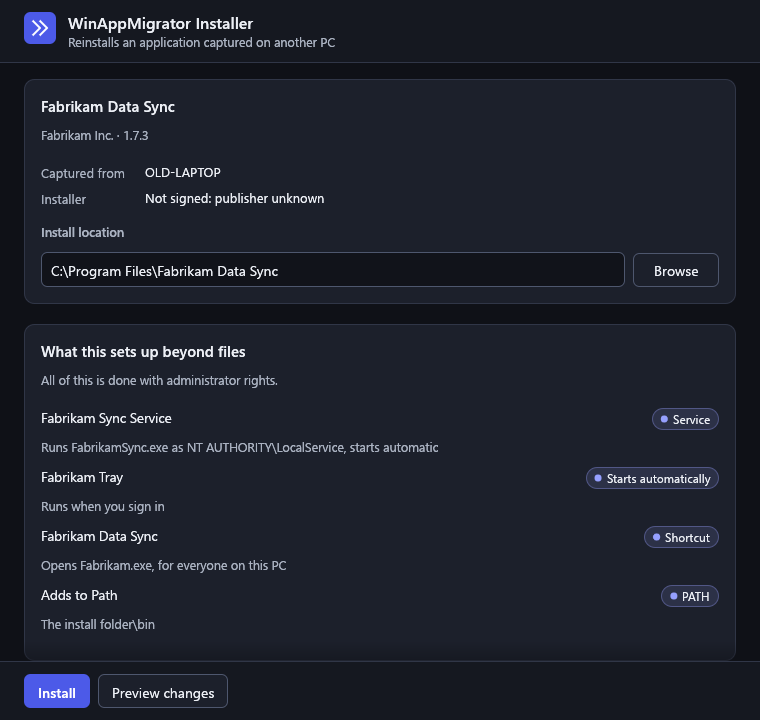
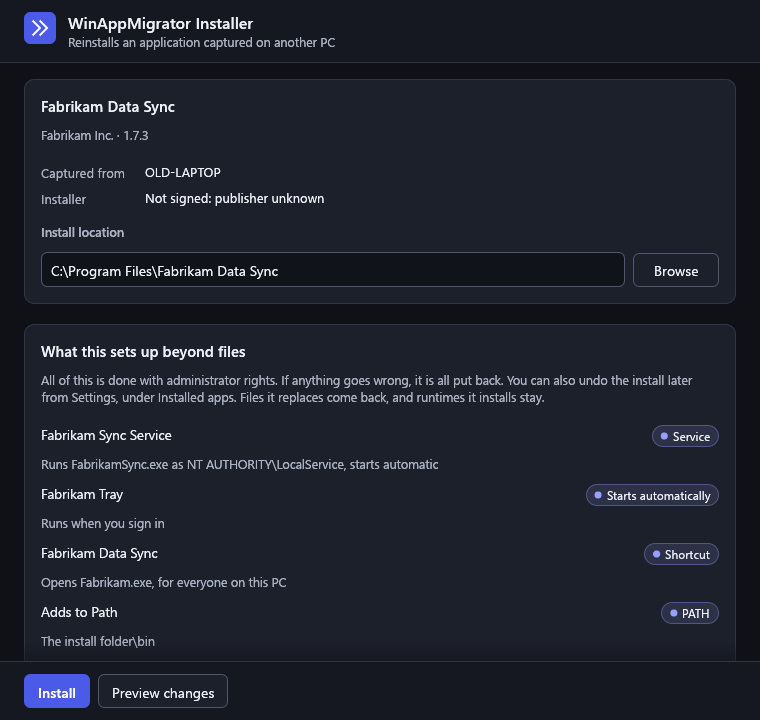
Document undoing an install, and renumber the plan
Removes items 5 and 13 from the plan, with the screenshots regenerated for what the
installer now says it can do.

Changed region(s): [[0.0605, 0.5194, 0.9684, 0.9167], [0.8474, 0.7333, 0.9684, 0.8861]]

diff --git a/README.md b/README.md
@@ -50,6 +50,8 @@ services, and runtimes, and packs them into a single `.exe`.
 - **Says what it will do.** Before installing, it lists the services, drivers, scheduled tasks, autostart
   entries, shortcuts, and `Path` changes it sets up, and whether it is signed and by whom. A preview goes
   further, listing every change.
+- **Can be undone.** If anything goes wrong, or you cancel, everything is put back. Later, you can uninstall
+  it from Settings like any other app, and files it replaced come back.
 
 ## How it works
 
@@ -78,7 +80,7 @@ Follow the progress, or cancel. You get one file, named after what it contains, 
 ### 3. Run it on the other PC
 
 Copy the installer over and run it. Check the install location, preview the changes if you like, then
-click **Install**.
+click **Install**. Follow the progress, or cancel, which puts back whatever it has done so far.
 
 <p align="center">
   <picture>
@@ -116,8 +118,18 @@ Please read these before relying on it, especially on a one-way trip from a fail
 - **Building to a FAT32 or exFAT drive needs room on your system drive.** Those drives cannot keep the
   build's working files private, so they go in the system's temp folder, and only the installer is
   written to the drive.
-- **Installs have no rollback, and no uninstaller is created.** A failure can leave an install part-way,
-  and files with the same names are replaced. The window warns you if the folder already has files.
+- **What an uninstall leaves.** Files and settings that changed after the install stay, and it says which,
+  and in that case what they replaced does not come back.
+  So do files you added, with the folders they are in, and user data and licenses unless you ask for them
+  to go. A runtime it installed stays, because other programs may be using it, including when a failed
+  install is rolled back. A service that ran as a custom account does not get its password back, because it
+  was never in the installer. Uninstalling an install made over another brings the earlier one back,
+  which has its own entry in Settings.
+- **A file replaced on another drive comes back with its folder's permissions.** Only a file on the same
+  drive as `ProgramData` can be moved aside as it is. One elsewhere is copied, and if it had permissions of
+  its own, they are not kept.
+- **An uninstaller shows "Unknown publisher" at its UAC prompt,** even for an installer you signed, because
+  [the stub must never be signed](docs/signing.md).
 - **Building from a connected drive captures less than building from the running PC.** COM, file
   associations, Run keys, and environment variables often do not match, shortcuts are not recreated, and
   the default install location keeps the drive's letter, so change it. Windows may also write to a
@@ -135,6 +147,9 @@ Please read these before relying on it, especially on a one-way trip from a fail
 - **Shortcuts go to your own Desktop and Start Menu.** One from a Desktop folder with an unusual name is left
   out and reported.
 - **Some licenses will not move.** Anything tied to the old machine may need reactivating.
+- **A file named like a device, such as `aux.h`, cannot be installed before Windows 11.** Earlier versions
+  open that name as the device instead. An installer holding one stops and says so, before anything is
+  installed. This goes by Microsoft's documented rule, because it has not been run on Windows 10.
 - **It is only for software you are licensed to move.** That part is up to you.
 
 The full list, with planned fixes, is in the [plan](docs/PLAN.md#open-issues-most-important-first).
@@ -154,8 +169,9 @@ More in [SECURITY.md](SECURITY.md).
 
 ## Automating the installer
 
-Run with any argument, an installer skips its window. With `--target-root` it previews unless you pass
-`--apply`, and exits non-zero if anything fails to verify. Without `--target-root` it prints usage.
+Run with any argument, an installer skips its window. It previews unless you pass `--apply`, and exits
+non-zero if anything fails, after putting back what it did. With no arguments that say what to do, it
+prints usage.
 
 ```powershell
 # Preview
@@ -163,20 +179,30 @@ Run with any argument, an installer skips its window. With `--target-root` it pr
 
 # Install
 .\App_installer.exe --target-root "C:\Program Files\App" --apply --force
+
+# Uninstall, with the id it printed, or the QuietUninstallString in its entry in Settings
+& "C:\ProgramData\WinAppMigrator\installs\wam-abc123\uninstall.exe" --uninstall wam-abc123 --quiet
 ```
 
 | Flag | Effect |
 | --- | --- |
-| `--target-root <DIR>` | Where to install. Must be a full path |
+| `--target-root <DIR>` | Where to install. Must be a full path. Without it, `--apply` and `--dry-run` use where the app was, if the checks the window makes allow that |
 | `--apply` | Actually install. Without it nothing is installed: the package is unpacked to a temporary folder, which is then removed |
 | `--dry-run` | Preview, stated explicitly |
 | `--force` | Replace existing files, registry values, services, tasks, shortcuts, and environment variables. Without it, an existing file stops the install before anything changes |
 | `--restore-user-data` | Put user data in the real AppData and ProgramData folders, not under the target |
 | `--no-restore-license` | Skip captured license data, which is otherwise restored |
+| `--log <FILE>` | Also write the log to this file, which must not exist yet |
 
-It prints its warnings and errors, and what it left out. Pipe the output somewhere to read it, for example
-`| Out-String`. The installer is a windowed program, so it does not write to an interactive console.
-Automation still needs an elevated shell, because the installer demands elevation.
+An uninstaller takes `--uninstall <ID>`, with `--quiet` for no window, `--remove-user-data` to also remove user
+data and licenses, and `--log <FILE>`. It reads only the record in the fixed location.
+
+Both print what they did, their warnings and errors, and what they left out. Pipe the output somewhere to read
+it, for example `| Out-String`. An installer is a windowed program, so it does not write to an interactive
+console. Automation still needs an elevated shell, because it demands elevation.
+
+Logs are in `%ProgramData%\WinAppMigrator\logs`, which only administrators can read, with the last 20 kept.
+They hold paths and key names, and never what a registry value, license file, or environment variable holds.
 
 ## Building from source
 

diff --git a/SECURITY.md b/SECURITY.md
@@ -40,6 +40,41 @@ installer is about to trust, and an honest package reaching too far:
   renamed and replaced, and it will not write through a link at or below the install location. From
   the moment it opens its own file, that cannot be changed or swapped.
 
+## Undoing an install
+
+A rollback and an uninstall both run elevated, and do what a record says, on locations other programs
+may be able to write to.
+
+- **The record is in one fixed place.** Each install has a folder at
+  `%ProgramData%\WinAppMigrator\installs\<id>`, and nothing reads a record from anywhere else, or takes
+  a path to one. Anyone can make a folder in `ProgramData`, so each level is checked to be a real folder
+  that administrators own and only they can change, and one that is not is never used. If it cannot be
+  made safe, the install does not start, since it could not be undone. An id must be what this code
+  would have named a folder before it goes near a path. Nothing a package installs can go there.
+- **It can hold secrets.** The record keeps registry values and environment variables as they were, so
+  it is closed to everyone else. None of that goes in a log, which holds paths and key names only, and
+  which only administrators can read. A file it replaced is moved aside with the permissions it had, so
+  whoever could read it before still can, by a path they would have to know.
+- **Links.** Before each delete and restore, it holds every folder on the way, checks that none of them has
+  become a link, and that the folder it is all under still leads where it did during the install.
+  Whatever fails that is left alone and reported, even if what is at the other end is byte for byte what it
+  would have removed. It checks again after the last thing that can be made to wait. This is by path, so
+  what is listed under [known gaps](#known-gaps) for an install location others can write to applies here too.
+- **Only what it did.** An uninstall, and undoing an install that never finished, delete a file only if it is
+  still what the install wrote, and put back a value only if it still holds what the install wrote. They
+  remove only the entries added to `Path`, a key or folder only if it is empty, and a service or task only if
+  it still runs what was installed. The package's own say-so about how to remove it, such as
+  `UninstallString`, is dropped when installing. Only one install or uninstall runs at a time.
+- **The uninstaller is never in the install folder,** where non-admins may be able to replace it. Settings
+  runs it elevated, so it is in the admin-only folder, where anyone can start it and find out it needs
+  elevation, and only administrators can change it. It is never signed, even when the installer was:
+  [why](docs/signing.md#the-uninstaller).
+- **It removes itself without running anything from a place others can write to.** A running program cannot
+  delete its own file, so after it exits, `cmd.exe` from the Windows folder removes the folder. It runs
+  from its own folder, with the whole command on its command line and `ping` by its full path, and with
+  `/D`, so that the `AutoRun` command in the signed-in user's registry does not run with it. If it cannot, what
+  is left is that file, in that folder, and the next install removes it.
+
 ## An installer can contain secrets
 
 Treat an installer as being as sensitive as the PC it came from. WinAppMigrator does not hunt
@@ -61,9 +96,15 @@ the installer stub must never be signed.
 that matter most for deciding whether to run an installer:
 
 - An install location outside a protected folder, such as `D:\Apps`, stays writable by other
-  programs on the PC. Links are checked just before each file is written, but a program running at
-  that moment could still race the check, and it can change the installed files afterward. Choose a
-  location under `C:\Program Files` for anything that installs a service or a driver.
+  programs on the PC. Links are checked just before each file is written, removed, or put back, but a
+  program running at that moment could still race the check, which matters most for what an elevated
+  uninstall deletes. It can also change the installed files afterward. Choose a location under
+  `C:\Program Files` for anything that installs a service or a driver. Closing this needs acting through a
+  handle to the folder rather than by a path, which this project's rules on `unsafe` code do not allow.
+- A file or folder in an install that someone else can write to can be kept open to make an undo fail. It
+  is reported and can be tried again, and an install that never finished stops the next install until it
+  can be undone. If that cannot ever happen, an administrator removes its folder under
+  `%ProgramData%\WinAppMigrator\installs`.
 - A program already running on the PC can rename a running installer and put another file at its
   path in the moment before the installer opens its own file. The installer then reads that file's
   package, and shows that file's signature, not the one you approved at the UAC prompt. So read the

diff --git a/docs/PLAN.md b/docs/PLAN.md
@@ -30,7 +30,10 @@ reverse-engineering, footprint discovery, packaging, restore, verification).
   volume. The app writes nothing to the drive, though Windows may replay a hive's
   transaction logs on load. The app runs elevated, so there is no mid-task UAC prompt.
 - Installer stub: hash-check the package → reinstall → hash-verify the reinstalled
-  files; non-zero exit on any mismatch.
+  files, with progress and cancel; non-zero exit on any mismatch.
+- A change journal for each install, in an admin-only folder, with rollback on any failure,
+  cancel, or an install that never finished, and a generated uninstaller run from the app's
+  entry in Settings. Persistent, secret-free logs.
 - Layered footprint discovery (MSI component DB, Inno `unins*.dat`, NSIS
   `uninstall.log`, App Paths, plus a Program Files/ProgramData/AppData walk), PE/delay-import/SxS/.NET analysis, runtime-prerequisite
   detection, and authoritative file counts.
@@ -42,7 +45,8 @@ reverse-engineering, footprint discovery, packaging, restore, verification).
   headless UI tests drive the real screens of the app and the installer.
 - Elevated round trip (`crates/winappmigrator-installer/tests/elevated_round_trip.rs`), run only by
   its own CI job on GitHub's throwaway runner: scan, package, remove, and reinstall a fake app, then
-  check the machine with Windows' own tools. See [CONTRIBUTING](../CONTRIBUTING.md).
+  check the machine with Windows' own tools, and undo it every way that can happen. See
+  [CONTRIBUTING](../CONTRIBUTING.md).
 - Dev/release build profiles tuned (deps + first-party optimized in dev for fast
   tests; LTO + single codegen unit + strip in release).
 
@@ -89,30 +93,26 @@ From the audit of 2026-11-01. Items are removed from this list as they are fixed
    folder also stays writable by other programs on the PC, which can race the link checks and
    change installed files afterward. A program already on the PC can swap a running installer's
    file in the moment before it opens it, which a handle to the running image would close.
-5. **No rollback.** The first copy failure stops the install part-way, and existing files
-   are overwritten with no backup.
-6. **Secrets.** All values under an app's registry keys and license files in its install
+5. **Secrets.** All values under an app's registry keys and license files in its install
    folder are captured even with the license option off. Apply the license classifiers
    when opted out, and redact secret-named values.
 
 **Performance**
 
-7. Every byte is read about five times to build and four times to install. Hash while
-    copying, in parallel.
-8. Compression is single-threaded, and recompresses formats that are already compressed.
-9. Scheduled tasks are read through PowerShell one at a time, 13 to 20 seconds, and all are
-    lost if one contains a character that breaks the JSON. The offline XML reader could
-    serve live scans too.
+6. Every byte is read about five times to build and four times to install. Hash while
+   copying, in parallel.
+7. Compression is single-threaded, and recompresses formats that are already compressed.
+8. Scheduled tasks are read through PowerShell one at a time, 13 to 20 seconds, and all are
+   lost if one contains a character that breaks the JSON. The offline XML reader could
+   serve live scans too.
 
 **Features**
 
-10. Footprint preview with include and exclude before building, offering folders that nearly
-    match the product's name, which are now left out.
-11. Size and free-space check before building.
-12. A way past the 4 GiB limit: a small loader plus a data file beside it.
-13. Installer progress, persistent logs, and a change journal enabling rollback and a
-    generated uninstaller.
-14. Target OS and architecture check.
+9. Footprint preview with include and exclude before building, offering folders that nearly
+   match the product's name, which are now left out.
+10. Size and free-space check before building.
+11. A way past the 4 GiB limit: a small loader plus a data file beside it.
+12. Target OS and architecture check.
 
 ## Not in scope for this release line
 

diff --git a/CHANGELOG.md b/CHANGELOG.md
@@ -4,6 +4,38 @@ All notable project changes are tracked here.
 
 ## Unreleased
 
+- **An install can be undone.** It keeps a journal, in an admin-only folder of its own under
+  `%ProgramData%\WinAppMigrator\installs`, recording what each change replaces before making it, with files
+  it overwrites kept as backups.
+  - Any failure puts everything back in reverse order and says what could not be. So does cancelling, and
+    so does the check after installing. An install killed or cut off by a power cut is found and undone by
+    the next one, which is safe however far the last attempt got. A preview only mentions it.
+  - **What fails an install has changed.** A step the package asked for that fails now means the install
+    failed, including registry values, tasks, and licenses, which used to be listed and left. The only
+    exceptions are a service's description, and a shortcut anywhere but a Startup folder. What the rules
+    refuse is still left out and does not fail anything, including a task or COM class that belongs to
+    something else, which they can only refuse at the moment it would be done.
+  - Runtimes it installed stay, and are reported as left behind.
+  - Without the record being safe to keep, an install no longer starts, and only one install or uninstall
+    runs at a time.
+- **An app installed this way has an uninstaller.** Its entry in Settings runs a bare copy of the stub kept
+  in that same folder, never in the install folder, and with `QuietUninstallString`, no window. It undoes
+  only what the journal says that install did: a file or value that has changed since is kept and reported,
+  overwritten files come back, only added `Path` entries come out, what you added stays, and so do user
+  data and licenses unless you ask. It stops a service before deleting it. It can be run again if it could
+  not finish, and removes itself after it exits. The source PC's `UninstallString`, `QuietUninstallString`,
+  `ModifyPath`, and `WindowsInstaller` no longer survive. A package with no entry gets one.
+- **Logs are kept,** in `%ProgramData%\WinAppMigrator\logs`, which only administrators can read, with a limit
+  on size and on how many are kept. They hold paths and key names only, and a test pins that. `--log <FILE>`
+  adds a file of your own. Both windows say where the log is when something fails. Warnings that used to
+  vanish, and errors a windowed program could not print, now go there.
+- **An installer's window shows its progress,** for unpacking and each step, and can be cancelled.
+- **`--apply` no longer needs `--target-root`.** It defaults to where the app was, if the checks the window
+  makes allow that.
+- **A service set to start automatically but delayed keeps that.** It came back as plain automatic.
+- **A file named like a device, such as `aux.h`, now stops an install before Windows 11 with a clear
+  message.** It reached the device, which threw its data away and reported a failed hash check, or could hang
+  on a real serial port. This has not been run on Windows 10.
 - **PowerShell calls no longer search every module.** A call that had to find a command took 23
   seconds on Windows Server with no module cache, so a small app took more than 6 minutes to install
   there. Scripts now import what they use by name. On CI's Windows Server, a preview went from 23

diff --git a/docs/gui.md b/docs/gui.md
@@ -143,13 +143,30 @@ The package also suggests the install location, so **Install** stays disabled wh
 drive, the Windows folder, or a folder such as `Program Files` that holds other things side by side.
 
 **Install** and **Preview changes** unpack the package on a worker thread only at that
-point, then run `restore_package`. **Install** hash-checks each file before writing
+point, then run `restore_package_monitored`. **Install** hash-checks each file before writing
 anything and verifies the result afterward. **Preview changes** only works out the changes,
 checking no file hashes beyond the package's own; it lists the first 300, with what reaches
 beyond files first. The result appears first in the
 window, and a clean install offers **Close** and **Open install folder**. Given command-line args it instead runs headlessly
 (`--target-root … --apply`) for automation and the end-to-end test. The stub reuses
 `winappmigrator-ui` for its look.
+
+While either runs, an `InstallMonitor`, which is the same `Monitor` the app's build uses, reports
+each step with a count where there is one, and carries the request to cancel. That takes effect at
+the next file or item, and an install that has begun then puts back what it did. A failed
+install says so, lists what could not be put back and what stays, such as a runtime, and says
+where the log is. The card above the options says the install can be undone.
+
+## The uninstaller (`uninstall.rs`, `uninstall_gui.rs`)
+
+An install leaves a bare copy of the stub in its admin-only folder, and the app's entry in Settings
+runs it with `--uninstall <id>`. Its window opens at once and reads the record on a worker
+thread, because checking who can change that record runs other programs. It says what will be
+removed and what will stay, has one option, to also remove user data and licenses, which is off,
+shows progress, and then lists what it undid, what it left and why, and what it could not do,
+with where the log is if anything failed. `--quiet` does the same with no window, for
+`QuietUninstallString`. An uninstall that could not finish keeps the entry in Settings, so it can
+be run again from there.
 
 ## Conventions
 
@@ -175,8 +192,8 @@ and disrupts the desktop). Instead:
 
 - `cargo fmt`, `clippy -D warnings`, and the tests. `egui_kittest` drives the real
   screens of both the app and the installer headlessly, and needs no elevation or GPU.
-- To see the result, set `WAM_UI_PREVIEW_DIR` and run the UI tests. The main states are
-  written there as PNGs:
+- To see the result, set `WAM_UI_PREVIEW_DIR` and run the UI tests. The main states of the
+  app, the installer, and the uninstaller are written there as PNGs:
 
   ```powershell
   $env:WAM_UI_PREVIEW_DIR = "$env:TEMP\wam-preview"

diff --git a/CONTRIBUTING.md b/CONTRIBUTING.md
@@ -29,7 +29,8 @@ cargo deny check
 ```
 
 From a normal shell, the end-to-end test skips its reinstall step, because the installer demands
-elevation. Run it from an elevated shell to cover the whole flow. It only installs to a temp folder.
+elevation. From an elevated shell it stops at a preview, because an install writes to `ProgramData`
+and to Settings. It installs for real only on GitHub's runner.
 
 ## Tests must not change the machine
 
@@ -43,14 +44,23 @@ removes all of it, runs the installer, and checks the machine with Windows' own 
 app's verifier. Packages written by hand cover what a scan cannot produce, such as asking for what
 the rules refuse.
 
+It then takes that install back out every way that can happen, comparing the machine before and after:
+an uninstall run from the command line Windows has for it, with and without things another program
+changed in between, a failure late in an install, and an installer killed part-way and while undoing
+that. A real account that is not an administrator tries to change what an uninstaller trusts.
+
 It does nothing unless `GITHUB_ACTIONS=true`, `RUNNER_ENVIRONMENT=github-hosted`, and
 `WAM_ELEVATED_E2E=1` are all set, and with them set it fails if it is not elevated. **Never set those
 on a real PC.** Without them it skips, so it is safe to run locally, and that shows only that it
 compiles.
 
-When you change how something is restored, extend this test, and push to see it run. What it cannot
-do: load a driver, since one that is not signed must never start, and sign in, so Run values and
-Startup shortcuts are checked but not run.
+When you change how something is restored, record what it replaces in the journal, teach
+`rollback.rs` to undo it, extend this test, and push to see it run. What it cannot do: load a driver,
+since one that is not signed must never start, sign in, so Run values and Startup shortcuts are checked
+but not run, and click in a window, so the uninstaller's is only started.
+
+**Logs hold paths and key names only.** What a registry value, license file, or environment variable holds
+must never reach one. `crates/winappmigrator-core/tests/log_has_no_secrets.rs` pins that.
 
 Keep the docs true: update the README, `docs/`, and `CHANGELOG.md` in the same change as the code.
 

diff --git a/docs/signing.md b/docs/signing.md
@@ -48,6 +48,19 @@ An installer's window says who signed it, or "Not signed: publisher unknown". Si
 thing that proves where one came from. The SHA-256 in its footer is checked before anything is read,
 which catches a truncated copy or an edited manifest, but whoever edits a package can update that too.
 
+## The uninstaller
+
+An install leaves a copy of the stub behind, for the app's entry in Settings to run. A validly signed
+copy would be exactly the signed stub this page says must never exist, so it has no signature, even if
+the installer it came from has one. When it is carved out of an installer, the package and the certificate
+table are cut off, and the table's location and the checksum, which signing writes into the headers,
+are cleared. It comes out byte for byte the stub the installer was built from, and Windows reports it as
+`NotSigned`. The elevated round trip checks that with `Get-AuthenticodeSignature`, for an installer given a
+valid signature from a throwaway certificate made on the runner.
+
+So its UAC prompt says "Unknown publisher". That is the price of the rule, and what makes it safe is where
+it is: a folder only administrators can write to.
+
 ## How release signing is set up
 
 Signing uses [Azure Artifact Signing][signing] with no stored password or certificate:
